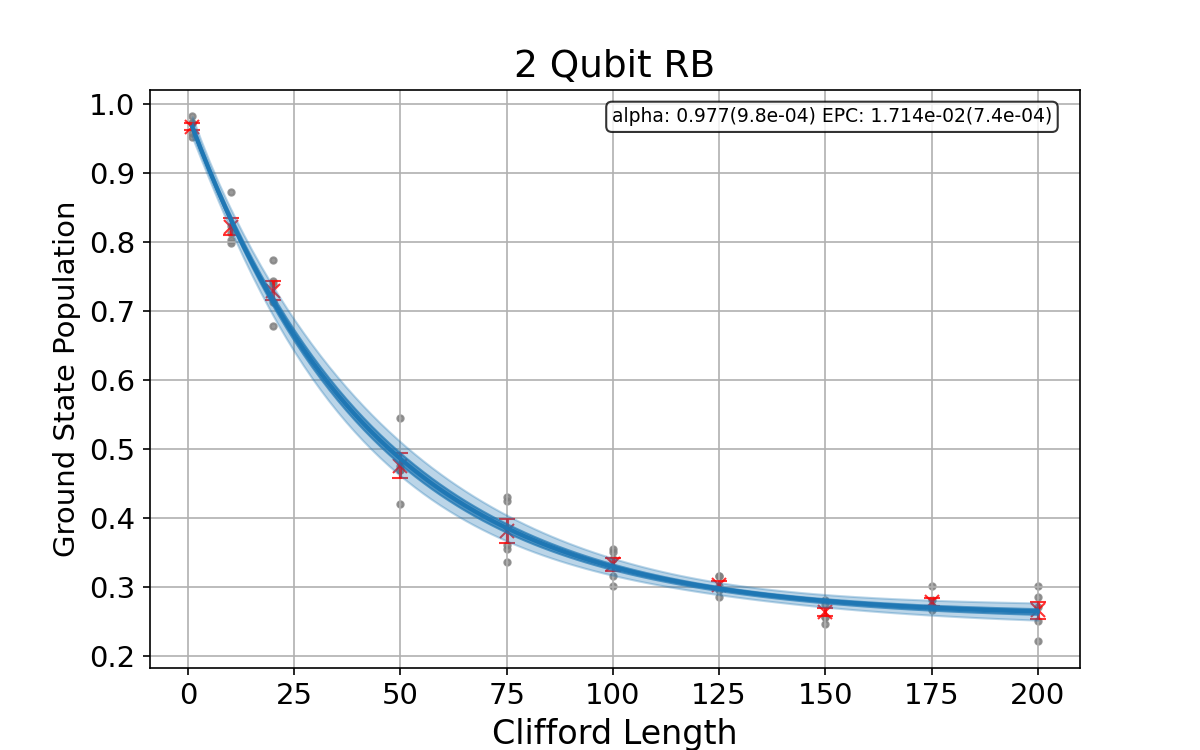
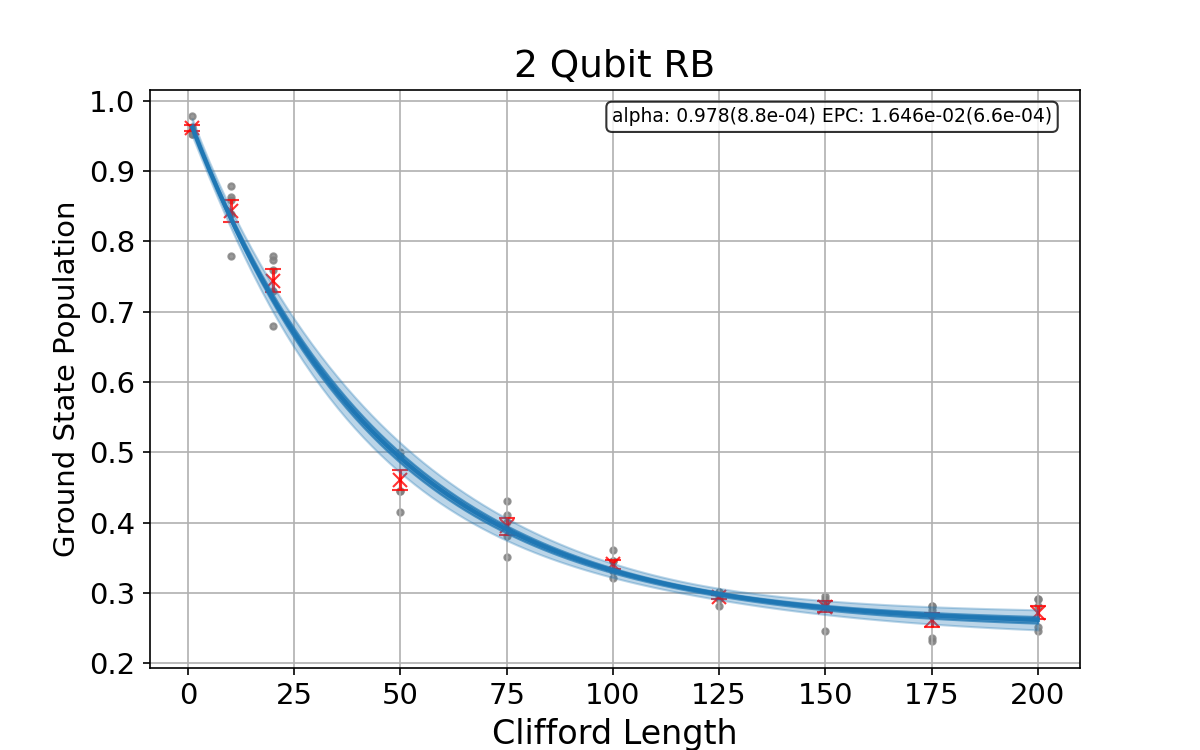
improved styling

diff --git a/src/main.py b/src/main.py
@@ -38,7 +38,7 @@ shots_orig = 200
 # --- Setup for qiskit_experiments ---
 physical_qubits = tuple(rb_pattern_orig[0])
 
-noise_model = NoiseModel(basis_gates=basis_gates_orig)
+noise_model = NoiseModel()
 noise_model.add_all_qubit_quantum_error(depolarizing_error(p1Q_orig, 1), ['u2'])
 noise_model.add_all_qubit_quantum_error(depolarizing_error(2 * p1Q_orig, 1), ['u3'])
 noise_model.add_all_qubit_quantum_error(depolarizing_error(p2Q_orig, 2), ['cx'])
@@ -49,12 +49,10 @@ rb_exp = StandardRB(
     physical_qubits=physical_qubits,
     lengths=lengths_orig,
     num_samples=nseeds_orig,
-    seed=42,
 )
 rb_exp.set_transpile_options(basis_gates=basis_gates_orig, optimization_level=0)
 
 print(f"Setting up StandardRB Experiment for {physical_qubits} qubits.")
-# ... (other print statements for setup)
 
 print(f"\nRunning StandardRB experiment...")
 exp_data: ExperimentData = rb_exp.run(backend=backend, shots=shots_orig)
@@ -83,7 +81,6 @@ if alpha_result:
 else:
     print("Alpha result not found.")
 
-# Plotting Customizations and Saving (No Display)
 print("\nCustomizing and saving RB plot as PNG...")
 output_filename = "customized_rb_plot.png"
 try:
